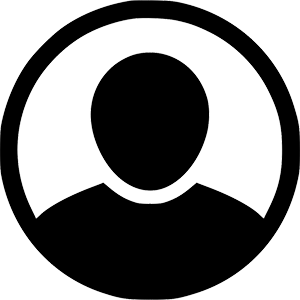
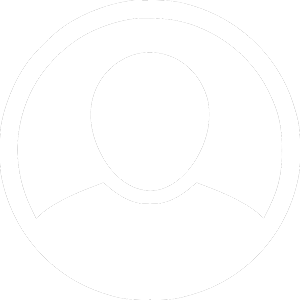
Added fallback artist image

diff --git a/routes/spotifyRouter.js b/routes/spotifyRouter.js
@@ -191,7 +191,8 @@ spotifyRouter.get("/artist/:id", isAuthenticated, function (req, res) {
         if (artwork.images[1]) {
             artwork = artwork.images[1].url;
         } else {
-            //
+            artwork =
+                "https://raw.githubusercontent.com/louisefindlay23/colorflow-player/test/public/img/fallback-imgs/fallback-artist.png";
         }
         const path = "./public/img/analysed-artwork/artist/" + req.params.id + ".png";
         // Check if already downloaded artist image. If not, download it.
